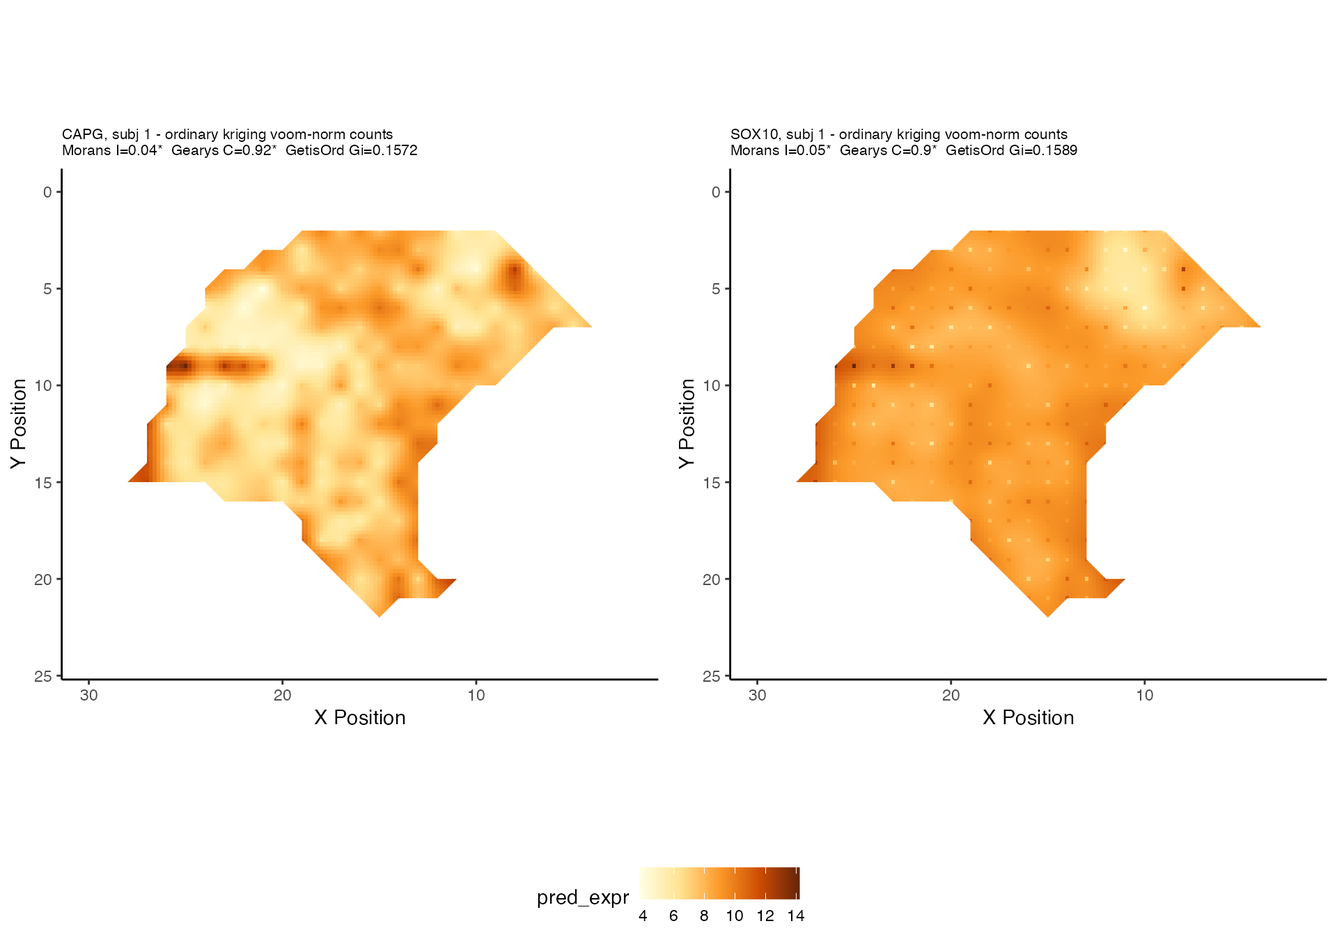
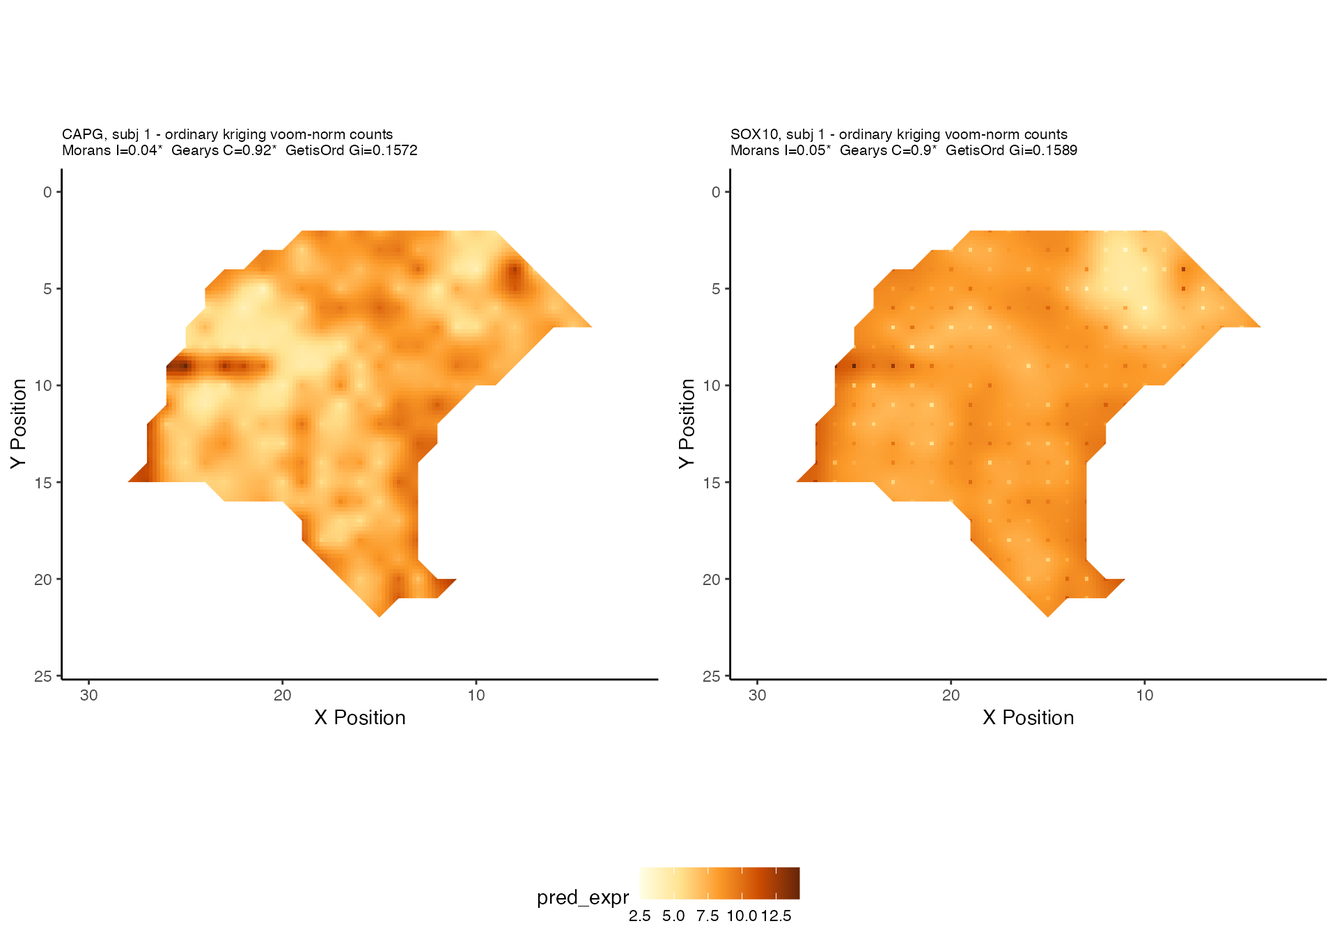
updated vignette

Changed region(s): [[0.0938, 0.25, 0.4375, 0.6562], [0.4688, 0.9688, 0.5938, 1.0]]

diff --git a/articles/melanoma_ST_vignette.html b/articles/melanoma_ST_vignette.html
@@ -144,7 +144,7 @@
 <code class="sourceCode R"><span class="fu"><a href="../reference/bulk_pca.html">bulk_pca</a></span><span class="op">(</span><span class="va">melanoma</span>, clinvar<span class="op">=</span><span class="st">'Gender'</span><span class="op">)</span>
 <span class="co">#&gt; Loading required package: magrittr</span>
 <span class="co">#&gt; Loading required package: ggplot2</span></code></pre></div>
-<p><img src="melanoma_ST_vignette_files/figure-html/unnamed-chunk-10-1.png" width="700"></p>
+<p><img src="melanoma_ST_vignette_files/figure-html/pca_chunk-1.png" width="960"></p>
 </div>
 <div id="data-normalization-of-spatially-resolved-transcriptomic-data" class="section level2">
 <h2 class="hasAnchor">
@@ -165,8 +165,8 @@
 <p>Let’s produce a quilt plot for the gene CAPG and SOX10, two genes known to be expressed in melanoma.</p>
 <div class="sourceCode" id="cb11"><pre class="downlit sourceCode r">
 <code class="sourceCode R"><span class="va">quilts1</span> <span class="op">&lt;-</span> <span class="fu"><a href="../reference/plot_gene_quilt.html">plot_gene_quilt</a></span><span class="op">(</span><span class="va">melanoma</span>, genes<span class="op">=</span><span class="fu"><a href="https://rdrr.io/r/base/c.html">c</a></span><span class="op">(</span><span class="st">'CAPG'</span>, <span class="st">'SOX10'</span><span class="op">)</span>, color_pal<span class="op">=</span><span class="st">"YlOrBr"</span>, plot_who<span class="op">=</span><span class="fl">1</span><span class="op">)</span>
-<span class="fu">ggpubr</span><span class="fu">::</span><span class="fu"><a href="https://rpkgs.datanovia.com/ggpubr/reference/ggarrange.html">ggarrange</a></span><span class="op">(</span>plotlist<span class="op">=</span><span class="va">quilts1</span>, nrow<span class="op">=</span><span class="fl">1</span>, ncol<span class="op">=</span><span class="fl">2</span><span class="op">)</span></code></pre></div>
-<p><img src="melanoma_ST_vignette_files/figure-html/unnamed-chunk-12-1.png" width="700"></p>
+<span class="fu">ggpubr</span><span class="fu">::</span><span class="fu"><a href="https://rpkgs.datanovia.com/ggpubr/reference/ggarrange.html">ggarrange</a></span><span class="op">(</span>plotlist<span class="op">=</span><span class="va">quilts1</span>, nrow<span class="op">=</span><span class="fl">1</span>, ncol<span class="op">=</span><span class="fl">2</span>, common.legend<span class="op">=</span><span class="cn">T</span>, legend<span class="op">=</span><span class="st">'bottom'</span><span class="op">)</span></code></pre></div>
+<p><img src="melanoma_ST_vignette_files/figure-html/genequilt_chunk-1.png" width="960"></p>
 <p>We can see that gene expression patterns of both genes are different, with a more dispersed pattern in CAPG, compared to SOX10. The large area of lower CAPG expression corresponds to the melanoma pocket detected by Thrane et al. (see Figure 3 of their study).</p>
 <div id="spatial-interpolation-kriging-of-gene-expression" class="section level3">
 <h3 class="hasAnchor">
@@ -183,8 +183,8 @@
 <div class="sourceCode" id="cb13"><pre class="downlit sourceCode r">
 <code class="sourceCode R"><span class="va">kriges1</span> <span class="op">&lt;-</span> <span class="fu"><a href="../reference/plot_gene_krige.html">plot_gene_krige</a></span><span class="op">(</span><span class="va">melanoma</span>, genes<span class="op">=</span><span class="fu"><a href="https://rdrr.io/r/base/c.html">c</a></span><span class="op">(</span><span class="st">'CAPG'</span>, <span class="st">'SOX10'</span><span class="op">)</span>, plot_who<span class="op">=</span><span class="fl">1</span><span class="op">)</span>
 <span class="co">#&gt; Loading required namespace: rgeos</span>
-<span class="fu">ggpubr</span><span class="fu">::</span><span class="fu"><a href="https://rpkgs.datanovia.com/ggpubr/reference/ggarrange.html">ggarrange</a></span><span class="op">(</span>plotlist<span class="op">=</span><span class="va">kriges1</span>, nrow<span class="op">=</span><span class="fl">1</span>, ncol<span class="op">=</span><span class="fl">2</span><span class="op">)</span></code></pre></div>
-<p><img src="melanoma_ST_vignette_files/figure-html/unnamed-chunk-14-1.png" width="700"></p>
+<span class="fu">ggpubr</span><span class="fu">::</span><span class="fu"><a href="https://rpkgs.datanovia.com/ggpubr/reference/ggarrange.html">ggarrange</a></span><span class="op">(</span>plotlist<span class="op">=</span><span class="va">kriges1</span>, nrow<span class="op">=</span><span class="fl">1</span>, ncol<span class="op">=</span><span class="fl">2</span>, common.legend<span class="op">=</span><span class="cn">T</span>, legend<span class="op">=</span><span class="st">'bottom'</span><span class="op">)</span></code></pre></div>
+<p><img src="melanoma_ST_vignette_files/figure-html/plotgenekrige_chunk1-1.png" width="960"></p>
 <p>By looking at the transcriptomic surfaces of the tho genes, it is easier to detect pockets of higher (or lower) expression within the tissue. It is now more evident that expression of CAPG is lower on the left (melanoma) portion of the tumor slice, compared to the rest of the slice.</p>
 <p>In the transcriptomic surface plots, <code>spatialGE</code> outputs three spatial heterogeneity statistics: Moran’s I, Geary’s C, and Getis-Ord Gi.</p>
 <table class="table">
@@ -217,8 +217,8 @@
 <p>A higher difference in Moran’s I can be seen for one of the tissue slices of patient 2. With a higher Moran’s I, CAPG shows expression concentrated in the center right and lower left of the tissue. For SOX10, expression is almost uniform for the lower half of the tissue slice.</p>
 <div class="sourceCode" id="cb14"><pre class="downlit sourceCode r">
 <code class="sourceCode R"><span class="va">kriges2</span> <span class="op">&lt;-</span> <span class="fu"><a href="../reference/plot_gene_krige.html">plot_gene_krige</a></span><span class="op">(</span><span class="va">melanoma</span>, genes<span class="op">=</span><span class="fu"><a href="https://rdrr.io/r/base/c.html">c</a></span><span class="op">(</span><span class="st">'CAPG'</span>, <span class="st">'SOX10'</span><span class="op">)</span>, plot_who<span class="op">=</span><span class="fl">3</span><span class="op">)</span>
-<span class="fu">ggpubr</span><span class="fu">::</span><span class="fu"><a href="https://rpkgs.datanovia.com/ggpubr/reference/ggarrange.html">ggarrange</a></span><span class="op">(</span>plotlist<span class="op">=</span><span class="va">kriges2</span>, nrow<span class="op">=</span><span class="fl">1</span>, ncol<span class="op">=</span><span class="fl">2</span><span class="op">)</span></code></pre></div>
-<p><img src="melanoma_ST_vignette_files/figure-html/unnamed-chunk-16-1.png" width="700"></p>
+<span class="fu">ggpubr</span><span class="fu">::</span><span class="fu"><a href="https://rpkgs.datanovia.com/ggpubr/reference/ggarrange.html">ggarrange</a></span><span class="op">(</span>plotlist<span class="op">=</span><span class="va">kriges2</span>, nrow<span class="op">=</span><span class="fl">1</span>, ncol<span class="op">=</span><span class="fl">2</span>, common.legend<span class="op">=</span><span class="cn">T</span>, legend<span class="op">=</span><span class="st">'bottom'</span><span class="op">)</span></code></pre></div>
+<p><img src="melanoma_ST_vignette_files/figure-html/plotgenekrige_chunk2-1.png" width="960"></p>
 </div>
 </div>
 <div id="gene-expression-deconvolution-in-spatial-arrays" class="section level2">
@@ -267,48 +267,47 @@
 <span class="co">#&gt; Applying xCell to spatial array #4...</span>
 <span class="co">#&gt; </span>
 <span class="co">#&gt; Calculating p-values for spatial array #4...</span></code></pre></div>
-<p>With the function <code><a href="../reference/plot_deconv_quilt.html">plot_deconv_quilt()</a></code>, we can visualize the cell type scores inferred by xCell. For example, B cells and lymphatic endothelial cells.</p>
+<p>With the function <code><a href="../reference/plot_deconv_quilt.html">plot_deconv_quilt()</a></code>, we can visualize the cell type scores inferred by xCell. For example, B cells and dendritic cells.</p>
 <div class="sourceCode" id="cb16"><pre class="downlit sourceCode r">
-<code class="sourceCode R"><span class="va">quilts2</span> <span class="op">&lt;-</span> <span class="fu"><a href="../reference/plot_deconv_quilt.html">plot_deconv_quilt</a></span><span class="op">(</span><span class="va">melanoma</span>, cells<span class="op">=</span><span class="fu"><a href="https://rdrr.io/r/base/c.html">c</a></span><span class="op">(</span><span class="st">'b_cells'</span>, <span class="st">'ly_endothelial_cells'</span><span class="op">)</span>, 
+<code class="sourceCode R"><span class="va">quilts2</span> <span class="op">&lt;-</span> <span class="fu"><a href="../reference/plot_deconv_quilt.html">plot_deconv_quilt</a></span><span class="op">(</span><span class="va">melanoma</span>, cells<span class="op">=</span><span class="fu"><a href="https://rdrr.io/r/base/c.html">c</a></span><span class="op">(</span><span class="st">'b_cells'</span>, <span class="st">'i_dc'</span><span class="op">)</span>, 
                            color_pal<span class="op">=</span><span class="st">"YlOrBr"</span>, plot_who<span class="op">=</span><span class="fl">1</span>, purity<span class="op">=</span><span class="cn">T</span><span class="op">)</span>
-
-<span class="fu">gridExtra</span><span class="fu">::</span><span class="fu"><a href="https://rdrr.io/pkg/gridExtra/man/arrangeGrob.html">grid.arrange</a></span><span class="op">(</span>grobs<span class="op">=</span><span class="va">quilts2</span>, nrow<span class="op">=</span><span class="fl">1</span>, ncol<span class="op">=</span><span class="fl">2</span><span class="op">)</span></code></pre></div>
-<p><img src="melanoma_ST_vignette_files/figure-html/unnamed-chunk-18-1.png" width="700"></p>
-<p>By plotting the tumor/stroma classification of the spots, the differences in cell scores can quiclky be detected. Melanoma areas (squares) show lower B cell and endothelial cell scores, as expected. Nonetheless, some B cell infiltration is observed in the melanoma pocket (darker squares on the left portion of the graph on the left).</p>
+<span class="fu">ggpubr</span><span class="fu">::</span><span class="fu"><a href="https://rpkgs.datanovia.com/ggpubr/reference/ggarrange.html">ggarrange</a></span><span class="op">(</span>plotlist<span class="op">=</span><span class="va">quilts2</span>, nrow<span class="op">=</span><span class="fl">1</span>, ncol<span class="op">=</span><span class="fl">3</span>, common.legend<span class="op">=</span><span class="cn">T</span>, legend<span class="op">=</span><span class="st">'bottom'</span><span class="op">)</span></code></pre></div>
+<p><img src="melanoma_ST_vignette_files/figure-html/deconvquilts_chunk-1.png" width="960"></p>
+<p>By plotting the tumor/stroma classification of the spots, the differences in cell scores can quiclky be detected. Melanoma areas (squares) show lower B cell and dendritic cell scores, as expected. Nonetheless, B cells were abundant in the lymphoid pocket (upper right part of the tissue).</p>
 <p>Similar plots can be generated for gene expression, as opposed to deconvolution scores, with the <code><a href="../reference/plot_gene_quilt.html">plot_gene_quilt()</a></code> function:</p>
 <div class="sourceCode" id="cb17"><pre class="downlit sourceCode r">
 <code class="sourceCode R"><span class="va">quilts3</span> <span class="op">&lt;-</span> <span class="fu"><a href="../reference/plot_gene_quilt.html">plot_gene_quilt</a></span><span class="op">(</span><span class="va">melanoma</span>, genes<span class="op">=</span><span class="fu"><a href="https://rdrr.io/r/base/c.html">c</a></span><span class="op">(</span><span class="st">'CAPG'</span>, <span class="st">'SOX10'</span><span class="op">)</span>, color_pal<span class="op">=</span><span class="st">"YlOrBr"</span>, 
                            plot_who<span class="op">=</span><span class="fl">1</span>, purity<span class="op">=</span><span class="cn">T</span><span class="op">)</span>
 
-<span class="fu">gridExtra</span><span class="fu">::</span><span class="fu"><a href="https://rdrr.io/pkg/gridExtra/man/arrangeGrob.html">marrangeGrob</a></span><span class="op">(</span><span class="va">quilts3</span>, nrow<span class="op">=</span><span class="fl">1</span>, ncol<span class="op">=</span><span class="fl">2</span><span class="op">)</span></code></pre></div>
-<p><img src="melanoma_ST_vignette_files/figure-html/unnamed-chunk-19-1.png" width="700"></p>
+<span class="fu">ggpubr</span><span class="fu">::</span><span class="fu"><a href="https://rpkgs.datanovia.com/ggpubr/reference/ggarrange.html">ggarrange</a></span><span class="op">(</span>plotlist<span class="op">=</span><span class="va">quilts3</span>, nrow<span class="op">=</span><span class="fl">1</span>, ncol<span class="op">=</span><span class="fl">3</span>, common.legend<span class="op">=</span><span class="cn">T</span>, legend<span class="op">=</span><span class="st">'bottom'</span><span class="op">)</span></code></pre></div>
+<p><img src="melanoma_ST_vignette_files/figure-html/genepurity_chunk-1.png" width="960"></p>
 <p>Spatial interpolation of cell scores is also possible with the <code><a href="../reference/deconv_krige.html">deconv_krige()</a></code> function:</p>
 <div class="sourceCode" id="cb18"><pre class="downlit sourceCode r">
-<code class="sourceCode R"><span class="va">melanoma</span> <span class="op">&lt;-</span> <span class="fu"><a href="../reference/deconv_krige.html">deconv_krige</a></span><span class="op">(</span><span class="va">melanoma</span>, cells<span class="op">=</span><span class="fu"><a href="https://rdrr.io/r/base/c.html">c</a></span><span class="op">(</span><span class="st">'b_cells'</span>, <span class="st">'ly_endothelial_cells'</span><span class="op">)</span>, 
+<code class="sourceCode R"><span class="va">melanoma</span> <span class="op">&lt;-</span> <span class="fu"><a href="../reference/deconv_krige.html">deconv_krige</a></span><span class="op">(</span><span class="va">melanoma</span>, cells<span class="op">=</span><span class="fu"><a href="https://rdrr.io/r/base/c.html">c</a></span><span class="op">(</span><span class="st">'b_cells'</span>, <span class="st">'i_dc'</span><span class="op">)</span>, 
                          who<span class="op">=</span><span class="fu"><a href="https://rdrr.io/r/base/c.html">c</a></span><span class="op">(</span><span class="fl">1</span>, <span class="fl">3</span><span class="op">)</span><span class="op">)</span>
 <span class="co">#&gt; Performing spatial interpolation ('kriging') of b_cells for subject 1...</span>
-<span class="co">#&gt; Performing spatial interpolation ('kriging') of ly_endothelial_cells for subject 1...</span>
+<span class="co">#&gt; Performing spatial interpolation ('kriging') of i_dc for subject 1...</span>
 <span class="co">#&gt; Performing spatial interpolation ('kriging') of b_cells for subject 3...</span>
-<span class="co">#&gt; Performing spatial interpolation ('kriging') of ly_endothelial_cells for subject 3...</span></code></pre></div>
+<span class="co">#&gt; Performing spatial interpolation ('kriging') of i_dc for subject 3...</span></code></pre></div>
 <p>We plot the surfaces using the <code><a href="../reference/plot_deconv_krige.html">plot_deconv_krige()</a></code> function.</p>
 <div class="sourceCode" id="cb19"><pre class="downlit sourceCode r">
-<code class="sourceCode R"><span class="va">kriges3</span> <span class="op">&lt;-</span> <span class="fu"><a href="../reference/plot_deconv_krige.html">plot_deconv_krige</a></span><span class="op">(</span><span class="va">melanoma</span>,  cells<span class="op">=</span><span class="fu"><a href="https://rdrr.io/r/base/c.html">c</a></span><span class="op">(</span><span class="st">'b_cells'</span>, <span class="st">'ly_endothelial_cells'</span><span class="op">)</span>,
+<code class="sourceCode R"><span class="va">kriges3</span> <span class="op">&lt;-</span> <span class="fu"><a href="../reference/plot_deconv_krige.html">plot_deconv_krige</a></span><span class="op">(</span><span class="va">melanoma</span>,  cells<span class="op">=</span><span class="fu"><a href="https://rdrr.io/r/base/c.html">c</a></span><span class="op">(</span><span class="st">'b_cells'</span>, <span class="st">'i_dc'</span><span class="op">)</span>,
                            color_pal<span class="op">=</span><span class="st">"YlOrBr"</span>, plot_who<span class="op">=</span><span class="fl">1</span><span class="op">)</span>
-<span class="fu">ggpubr</span><span class="fu">::</span><span class="fu"><a href="https://rpkgs.datanovia.com/ggpubr/reference/ggarrange.html">ggarrange</a></span><span class="op">(</span>plotlist<span class="op">=</span><span class="va">kriges3</span>, nrow<span class="op">=</span><span class="fl">1</span>, ncol<span class="op">=</span><span class="fl">2</span><span class="op">)</span></code></pre></div>
-<p><img src="melanoma_ST_vignette_files/figure-html/unnamed-chunk-21-1.png" width="700"></p>
+<span class="fu">ggpubr</span><span class="fu">::</span><span class="fu"><a href="https://rpkgs.datanovia.com/ggpubr/reference/ggarrange.html">ggarrange</a></span><span class="op">(</span>plotlist<span class="op">=</span><span class="va">kriges3</span>, nrow<span class="op">=</span><span class="fl">1</span>, ncol<span class="op">=</span><span class="fl">2</span>, common.legend<span class="op">=</span><span class="cn">T</span>, legend<span class="op">=</span><span class="st">'bottom'</span><span class="op">)</span></code></pre></div>
+<p><img src="melanoma_ST_vignette_files/figure-html/plotdeconvkrige_chunk-1.png" width="960"></p>
 <p>Cell scores in xCell are accompanied by p-values to support the significance of the scores. The p-values are calculated automatically during deconvolution in <code>spatialGE</code>, and we can plot them using the <code>pvalue</code> option:</p>
 <div class="sourceCode" id="cb20"><pre class="downlit sourceCode r">
-<code class="sourceCode R"><span class="va">kriges4</span> <span class="op">&lt;-</span> <span class="fu"><a href="../reference/plot_deconv_krige.html">plot_deconv_krige</a></span><span class="op">(</span><span class="va">melanoma</span>,  cells<span class="op">=</span><span class="fu"><a href="https://rdrr.io/r/base/c.html">c</a></span><span class="op">(</span><span class="st">'b_cells'</span>, <span class="st">'ly_endothelial_cells'</span><span class="op">)</span>,
+<code class="sourceCode R"><span class="va">kriges4</span> <span class="op">&lt;-</span> <span class="fu"><a href="../reference/plot_deconv_krige.html">plot_deconv_krige</a></span><span class="op">(</span><span class="va">melanoma</span>,  cells<span class="op">=</span><span class="fu"><a href="https://rdrr.io/r/base/c.html">c</a></span><span class="op">(</span><span class="st">'b_cells'</span>, <span class="st">'i_dc'</span><span class="op">)</span>,
                            color_pal<span class="op">=</span><span class="st">"YlOrBr"</span>, plot_who<span class="op">=</span><span class="fl">1</span>, pvalues<span class="op">=</span><span class="cn">T</span><span class="op">)</span>
-<span class="fu">ggpubr</span><span class="fu">::</span><span class="fu"><a href="https://rpkgs.datanovia.com/ggpubr/reference/ggarrange.html">ggarrange</a></span><span class="op">(</span>plotlist<span class="op">=</span><span class="va">kriges4</span>, nrow<span class="op">=</span><span class="fl">1</span>, ncol<span class="op">=</span><span class="fl">2</span><span class="op">)</span></code></pre></div>
-<p><img src="melanoma_ST_vignette_files/figure-html/unnamed-chunk-22-1.png" width="700"></p>
-<p>As expected, xCell scores for the lymphatic endothelial cells are significant almost exclusively outside the melanoma area. B cells are present throughout the tissue, but less abundant in the melanoma pocket.</p>
+<span class="fu">ggpubr</span><span class="fu">::</span><span class="fu"><a href="https://rpkgs.datanovia.com/ggpubr/reference/ggarrange.html">ggarrange</a></span><span class="op">(</span>plotlist<span class="op">=</span><span class="va">kriges4</span>, nrow<span class="op">=</span><span class="fl">1</span>, ncol<span class="op">=</span><span class="fl">2</span>, common.legend<span class="op">=</span><span class="cn">T</span>, legend<span class="op">=</span><span class="st">'bottom'</span><span class="op">)</span></code></pre></div>
+<p><img src="melanoma_ST_vignette_files/figure-html/plotkrigepvals_chunk-1.png" width="960"></p>
+<p>B cells are present throughout the tissue, but less abundant in the melanoma pocket. The estimates were significantly different from zero as sugggested by xCell’s permutation method. The xCell scores for the dendritic cells were only significantly different from zero only on three spots (gray hollow circles).</p>
 <p>The <code><a href="../reference/plot_deconv_krige.html">plot_deconv_krige()</a></code> also allows annotation of tumor spots:</p>
 <div class="sourceCode" id="cb21"><pre class="downlit sourceCode r">
-<code class="sourceCode R"><span class="va">kriges5</span> <span class="op">&lt;-</span> <span class="fu"><a href="../reference/plot_deconv_krige.html">plot_deconv_krige</a></span><span class="op">(</span><span class="va">melanoma</span>,  cells<span class="op">=</span><span class="fu"><a href="https://rdrr.io/r/base/c.html">c</a></span><span class="op">(</span><span class="st">'b_cells'</span>, <span class="st">'ly_endothelial_cells'</span><span class="op">)</span>,
+<code class="sourceCode R"><span class="va">kriges5</span> <span class="op">&lt;-</span> <span class="fu"><a href="../reference/plot_deconv_krige.html">plot_deconv_krige</a></span><span class="op">(</span><span class="va">melanoma</span>,  cells<span class="op">=</span><span class="fu"><a href="https://rdrr.io/r/base/c.html">c</a></span><span class="op">(</span><span class="st">'b_cells'</span>, <span class="st">'i_dc'</span><span class="op">)</span>,
                            color_pal<span class="op">=</span><span class="st">"YlOrBr"</span>, plot_who<span class="op">=</span><span class="fl">1</span>, purity<span class="op">=</span><span class="cn">T</span><span class="op">)</span>
-<span class="fu">ggpubr</span><span class="fu">::</span><span class="fu"><a href="https://rpkgs.datanovia.com/ggpubr/reference/ggarrange.html">ggarrange</a></span><span class="op">(</span>plotlist<span class="op">=</span><span class="va">kriges5</span>, nrow<span class="op">=</span><span class="fl">1</span>, ncol<span class="op">=</span><span class="fl">2</span><span class="op">)</span></code></pre></div>
-<p><img src="melanoma_ST_vignette_files/figure-html/unnamed-chunk-23-1.png" width="700"></p>
+<span class="fu">ggpubr</span><span class="fu">::</span><span class="fu"><a href="https://rpkgs.datanovia.com/ggpubr/reference/ggarrange.html">ggarrange</a></span><span class="op">(</span>plotlist<span class="op">=</span><span class="va">kriges5</span>, nrow<span class="op">=</span><span class="fl">1</span>, ncol<span class="op">=</span><span class="fl">2</span>, common.legend<span class="op">=</span><span class="cn">T</span>, legend<span class="op">=</span><span class="st">'bottom'</span><span class="op">)</span></code></pre></div>
+<p><img src="melanoma_ST_vignette_files/figure-html/plotkrigepurity_chunk-1.png" width="960"></p>
 </div>
 <div id="spatially-informed-clustering-of-spots" class="section level2">
 <h2 class="hasAnchor">
@@ -319,12 +318,15 @@
 <p>Results of clustering can be plotted via the <code><a href="../reference/plot_STclusters.html">plot_STclusters()</a></code> function:</p>
 <div class="sourceCode" id="cb23"><pre class="downlit sourceCode r">
 <code class="sourceCode R"><span class="va">cluster_p</span> <span class="op">&lt;-</span> <span class="fu"><a href="../reference/plot_STclusters.html">plot_STclusters</a></span><span class="op">(</span><span class="va">melanoma</span>, purity<span class="op">=</span><span class="cn">T</span>, plot_who<span class="op">=</span><span class="fu"><a href="https://rdrr.io/r/base/c.html">c</a></span><span class="op">(</span><span class="fl">1</span>,<span class="fl">3</span><span class="op">)</span><span class="op">)</span>
+
+<span class="co"># In case specific k values are selected:</span>
 <span class="co"># for(i in 1:2){</span>
-<span class="co">#  print(ggpubr::ggarrange(plotlist=cluster_p[[i]], nrow=2, ncol=2))</span>
+<span class="co">#  print(ggpubr::ggarrange(plotlist=cluster_p[[i]], nrow=2, ncol=2, common.legend=T, legend='bottom'))</span>
 <span class="co"># }</span>
-<span class="fu">ggpubr</span><span class="fu">::</span><span class="fu"><a href="https://rpkgs.datanovia.com/ggpubr/reference/ggarrange.html">ggarrange</a></span><span class="op">(</span>plotlist<span class="op">=</span><span class="va">cluster_p</span>, nrow<span class="op">=</span><span class="fl">1</span>, ncol<span class="op">=</span><span class="fl">2</span><span class="op">)</span></code></pre></div>
-<p><img src="melanoma_ST_vignette_files/figure-html/unnamed-chunk-25-1.png" width="700"></p>
-<p>We have used here the dynamicTreeCut (<code>dtc</code> option) to select the number of clusters, but users can define their own range of k to evaluate. The two tissues plotted here, show compartmentalization, but in the sample on the left, the lymnphoid tissue on the right portion of the tissue is shown in yellow.</p>
+
+<span class="fu">ggpubr</span><span class="fu">::</span><span class="fu"><a href="https://rpkgs.datanovia.com/ggpubr/reference/ggarrange.html">ggarrange</a></span><span class="op">(</span>plotlist<span class="op">=</span><span class="va">cluster_p</span>, nrow<span class="op">=</span><span class="fl">1</span>, ncol<span class="op">=</span><span class="fl">2</span>, common.legend<span class="op">=</span><span class="cn">T</span>, legend<span class="op">=</span><span class="st">'bottom'</span><span class="op">)</span></code></pre></div>
+<p><img src="melanoma_ST_vignette_files/figure-html/plotclustspots_chunk-1.png" width="960"></p>
+<p>We have used here the dynamicTreeCut (<code>dtc</code> option) to select the number of clusters, but users can define their own range of k to evaluate. The two tissues plotted here, show compartmentalization, but in the sample on the left, the lymphoid tissue on the right portion of the tissue is shown in yellow.</p>
 </div>
 <div id="summary" class="section level2">
 <h2 class="hasAnchor">
